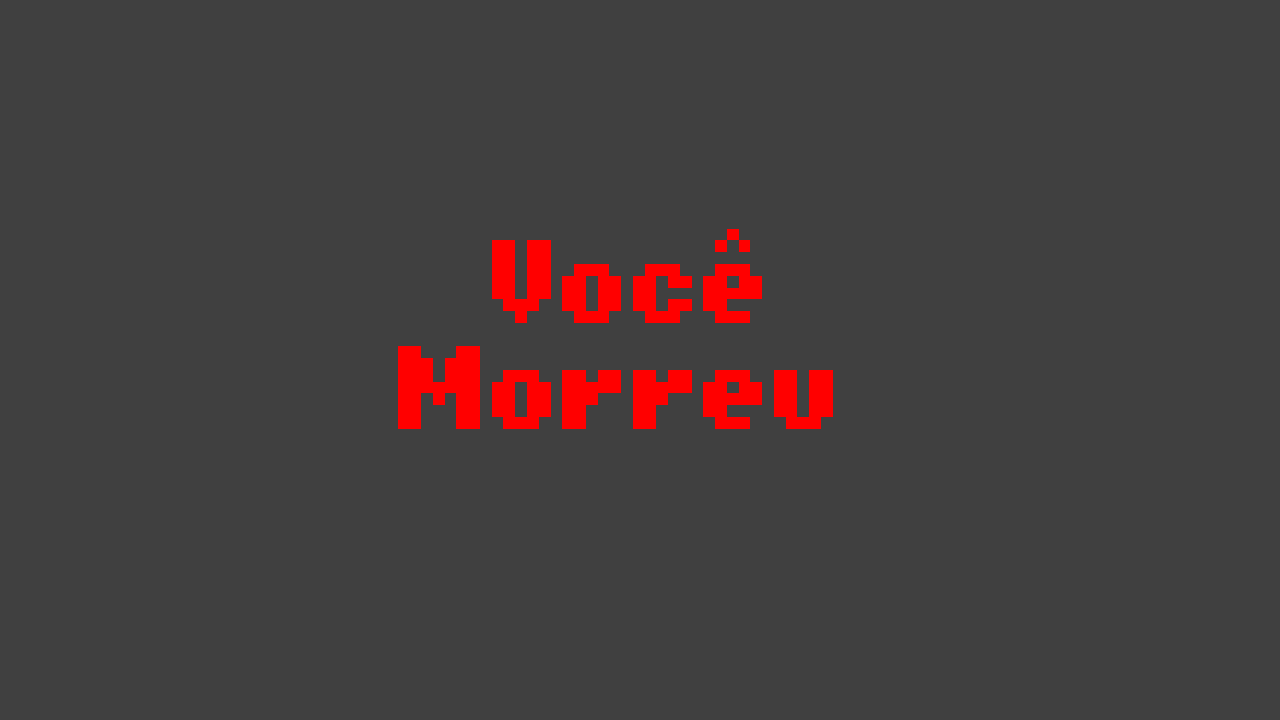
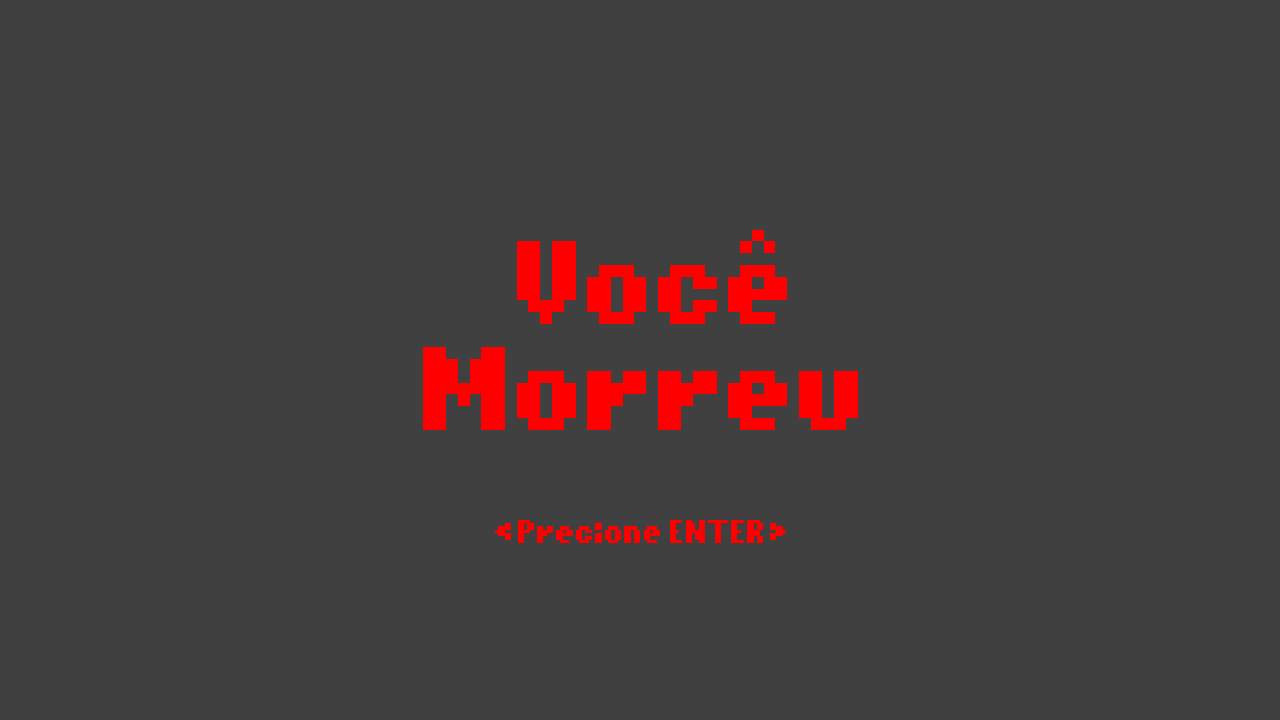
fiz umas coisas esqueci quais e quantas

Changed region(s): [[0.3125, 0.3056, 0.6875, 0.6111], [0.375, 0.7028, 0.625, 0.7639]]

diff --git a/core/src/com/gdx/glex/Jogo/GameplayActor.java b/core/src/com/gdx/glex/Jogo/GameplayActor.java
@@ -1,6 +1,7 @@
 package com.gdx.glex.Jogo;
 
 import com.badlogic.gdx.Gdx;
+import com.badlogic.gdx.Input;
 import com.badlogic.gdx.graphics.Texture;
 import com.badlogic.gdx.graphics.g2d.Animation;
 import com.badlogic.gdx.graphics.g2d.Batch;
@@ -10,7 +11,12 @@ import com.badlogic.gdx.scenes.scene2d.Actor;
 import com.gdx.glex.Assets;
 import com.gdx.glex.AuxiliarFunctions.AnimationFunctions;
 import com.gdx.glex.AuxiliarFunctions.GameplayFunctions;
+import com.gdx.glex.AuxiliarFunctions.RenderFunctions;
+import com.gdx.glex.Menu.MenuPrincipal.Menu;
+import com.gdx.glex.Menu.Rankings.Player;
+import com.gdx.glex.Menu.Rankings.Rankings;
 
+import java.sql.Date;
 import java.util.ArrayList;
 
 // Classe Actor, que eh basicamente como a tela deve ser mostrada no momento que
@@ -19,8 +25,11 @@ public class GameplayActor extends Actor
     private float elapsedTime, playerPosition, attackElapsedTime;
     private int pontuacao;
     private BitmapFont font;
-    private Texture deathMessage;
+    private Texture deathMessage, popUp;
 
+    private GameScreen game;
+
+    private boolean isEnterPressed;
     private boolean isRunning;
     private boolean isAttacking;
     private boolean isDead;
@@ -32,10 +41,13 @@ public class GameplayActor extends Actor
     private Animation attackAnimation, runAnimation, monsterAnimation, ghostAnimation, demonAnimation;
 
 
-    GameplayActor(Assets assetsManager)
+    GameplayActor(Assets assetsManager, GameScreen game)
     {
+        this.game = game;
+
         deathMessage = assetsManager.manager.get("Imagens/Gameplay/deathMessage.png");
         font = assetsManager.manager.get("Fonts/OldFont.fnt");
+        font.getData().setScale(2f,2f);
 
         attackAnimation = AnimationFunctions.png2Animation("Animations/playerAttack.png", assetsManager, 12, 1, 80, 80, 0, 12, 12f );
 
@@ -46,6 +58,9 @@ public class GameplayActor extends Actor
         ghostAnimation = AnimationFunctions.png2Animation("Animations/ghost.png", assetsManager, 7, 1, 64,64, 0, 7, 10f );
 
         demonAnimation = AnimationFunctions.png2Animation("Animations/demon.png", assetsManager, 6, 1, 74,160, 0, 6, 10f );
+
+        // pop up que pega o nome
+        popUp = assetsManager.manager.get("Imagens/Gameplay/popup.png");
 
         // seta posicao do player no meio da tela ao começo do jogo
         playerPosition = Gdx.graphics.getWidth()/2f;
@@ -64,6 +79,7 @@ public class GameplayActor extends Actor
     public void die()
     {
         isDead=true;
+        game.getMusic().stop();
     }
 
     public void killMonster()
@@ -79,9 +95,42 @@ public class GameplayActor extends Actor
         }
     }
 
+    public void deathEvent(Batch batch)
+    {
+        if (isDead)
+        {
+            if(isEnterPressed) {
+                RenderFunctions.drawInPlace(batch, popUp, 0.5f, 0.5f);
+                font.draw(batch, "Nome: " + game.getInputProcessor().getName(), Gdx.graphics.getWidth()/2f-Gdx.graphics.getWidth()/5f, Gdx.graphics.getHeight()/2f);
+            }
+            else
+                batch.draw(deathMessage, 0,0, Gdx.graphics.getWidth(), Gdx.graphics.getHeight());
+
+//            game.getGame().setScreen(new Menu(game.getGame(), Gdx.graphics.getWidth(),Gdx.graphics.getHeight()));
+        }
+    }
+
+    public void setEnterPressed()
+    {
+        isEnterPressed=true;
+    }
+
+    public boolean isEnterPressed()
+    {
+        return isEnterPressed;
+    }
+
+    public void endGame()
+    {
+        Player player = new Player(game.getInputProcessor().getName().substring(0,game.getInputProcessor().getName().length()-5), pontuacao );
+        game.getGame().setScreen(new Rankings(game.getGame(), Gdx.graphics.getWidth(),Gdx.graphics.getHeight(), player));
+    }
+
     @Override
     public void draw(Batch batch, float parentAlpha)
     {
+        deathEvent(batch);
+
         font.draw(batch, "Score: " + pontuacao, Gdx.graphics.getWidth() - Gdx.graphics.getWidth()/6f, Gdx.graphics.getHeight() - Gdx.graphics.getHeight()/6f);
 
         GameplayFunctions.spawnMonster(monstersPositions, monsterAnimationArray, isMonsterDead);
@@ -97,7 +146,6 @@ public class GameplayActor extends Actor
         // mata o player se ele for engolido pelo WoF
         if(playerPosition<=Gdx.graphics.getWidth()/20f) {
             die();
-            batch.draw(deathMessage, 0,0, Gdx.graphics.getWidth(), Gdx.graphics.getHeight());
         }
 
         // se nao estiver morto continua printando as coisas

diff --git a/core/src/com/gdx/glex/Jogo/GameScreen.java b/core/src/com/gdx/glex/Jogo/GameScreen.java
@@ -7,6 +7,7 @@ import com.badlogic.gdx.Screen;
 import com.badlogic.gdx.audio.Music;
 import com.badlogic.gdx.audio.Sound;
 import com.badlogic.gdx.graphics.GL20;
+import com.badlogic.gdx.graphics.Texture;
 import com.badlogic.gdx.graphics.g2d.Batch;
 import com.badlogic.gdx.graphics.g2d.TextureRegion;
 import com.badlogic.gdx.scenes.scene2d.Actor;
@@ -22,10 +23,10 @@ public class GameScreen implements Screen {
     private Stage mainStage, backgroundStage;
     private final int viewWidth;
     private final int viewHeight;
-    private int selectedButtonId=0;
     private Assets assetsManager;
-    private float elapsedTime;
+    private InputHandler inputProcessor;
     private GameplayActor mainActor;
+
     private Music music;
 
     private boolean isFinished;
@@ -66,9 +67,10 @@ public class GameScreen implements Screen {
         {
             isFinished=true;
             mainStage.clear();
-            mainActor =  new GameplayActor(assetsManager);
+            mainActor =  new GameplayActor(assetsManager, this);
             // Seta o input handler aqui
-            Gdx.input.setInputProcessor(new InputHandler(mainActor));
+            inputProcessor = new InputHandler(mainActor);
+            Gdx.input.setInputProcessor(inputProcessor);
             create();
         }
     }
@@ -77,13 +79,6 @@ public class GameScreen implements Screen {
     @Override
     public void render(float dt)
     {
-        if (mainActor != null)
-        {
-            if (mainActor.isDead() && Gdx.input.isKeyJustPressed(Input.Keys.ENTER))
-            {
-                game.setScreen(new Menu(game, Gdx.graphics.getWidth(),Gdx.graphics.getHeight()));
-            }
-        }
         // diz a cor de fundo da tela e da um clear nela
         Gdx.gl.glClearColor(0, 0, 0, 1);
         Gdx.gl.glClear( GL20.GL_COLOR_BUFFER_BIT );
@@ -96,6 +91,20 @@ public class GameScreen implements Screen {
         backgroundStage.draw();
         mainStage.draw();
     }
+
+    public InputHandler getInputProcessor()
+    {
+        return inputProcessor;
+    }
+
+    public Music getMusic() {
+        return music;
+    }
+
+    public Game getGame() {
+        return game;
+    }
+
     // Metodos que necessitam ser implementados por Screen porem nao relevantes por enquanto
 
     @Override

diff --git a/core/src/com/gdx/glex/Jogo/InputHandler.java b/core/src/com/gdx/glex/Jogo/InputHandler.java
@@ -4,11 +4,14 @@ import com.badlogic.gdx.Input;
 import com.badlogic.gdx.InputProcessor;
 import com.gdx.glex.Menu.MenuPage;
 
+import java.util.Locale;
+
 // Classe que lida com os Inputs, herda de InputProcessor e tem funcoes bem obveas
 public class InputHandler implements InputProcessor {
 
     private int state=0;
-    GameplayActor game;
+    private GameplayActor game;
+    private String name="";
 
     InputHandler(GameplayActor game)
     {
@@ -17,6 +20,12 @@ public class InputHandler implements InputProcessor {
 
     @Override
     public boolean keyDown(int keycode) {
+        if(game.isDead())
+            name+=Character.isLetter(keycode+36)?Input.Keys.toString(keycode).toLowerCase():"";
+
+        if(game.isEnterPressed() && Input.Keys.ENTER==keycode)
+            game.endGame();
+
         switch (keycode)
         {
             case Input.Keys.CONTROL_LEFT:
@@ -27,9 +36,17 @@ public class InputHandler implements InputProcessor {
                 // se for par corre caso contrario desacelera
                 game.setRunning(state++%2==0);
                 break;
+            case Input.Keys.ENTER:
+                if (game.isDead())
+                    game.setEnterPressed();
+                break;
         }
 
         return false;
+    }
+
+    public String getName() {
+        return name.substring(5);
     }
 
     @Override

diff --git a/core/src/com/gdx/glex/Menu/Rankings/Rankings.java b/core/src/com/gdx/glex/Menu/Rankings/Rankings.java
@@ -3,6 +3,7 @@ package com.gdx.glex.Menu.Rankings;
 import com.badlogic.gdx.Game;
 import com.badlogic.gdx.Gdx;
 import com.badlogic.gdx.Screen;
+import com.badlogic.gdx.files.FileHandle;
 import com.badlogic.gdx.graphics.Texture;
 import com.badlogic.gdx.graphics.g2d.*;
 import com.badlogic.gdx.scenes.scene2d.Actor;
@@ -21,6 +22,13 @@ public class Rankings extends MenuPage implements Screen {
     public Rankings(Game g, int viewWidth, int viewHeight){
         super(g, viewWidth, viewHeight, Rankings.class);
     }
+
+    public Rankings(Game g, int viewWidth, int viewHeight, Player player){
+        super(g, viewWidth, viewHeight, Rankings.class);
+        FileHandle file = Gdx.files.local("saves.txt");
+        file.writeString(player.getName() + " - " + player.getScore() + " - " + player.getLastGame(), true);
+    }
+
      //Ator da cena de ranking
     class RankingsActor extends Actor
     {
@@ -50,7 +58,7 @@ public class Rankings extends MenuPage implements Screen {
         cursor = assetsManager.manager.get(("Imagens/Rankings/cursor.png"));
 
         selected = assetsManager.manager.get(("Imagens/Rankings/selectedRanking.png"));
-        
+
         //Cria Ator a ser mostrado na tela
         mainStage.addActor(new RankingsActor());
         Gdx.input.setInputProcessor(new com.gdx.glex.Menu.InputHandler(this, this));

diff --git a/core/src/com/gdx/glex/AuxiliarFunctions/GameplayFunctions.java b/core/src/com/gdx/glex/AuxiliarFunctions/GameplayFunctions.java
@@ -32,10 +32,8 @@ public class GameplayFunctions {
         for(int i=0; i<actor.getMonsterAnimationArray().size(); i++) {
             actor.getMonstersPositions().set(i,actor.getMonstersPositions().get(i)-Gdx.graphics.getDeltaTime()*speedo);
             if(actor.getMonstersPositions().get(i)<=actor.getPlayerPosition() && !actor.getIsMonsterDead().get(i)) {
-                actor.die();
-                //System.out.println("edu is gay");
-                //vlw ligoski <3
-                batch.draw(actor.getDeathMessage(), 0,0, Gdx.graphics.getWidth(), Gdx.graphics.getHeight());
+                if(!actor.isDead())
+                    actor.die();
             }
             if(actor.getMonsterAnimationArray().get(i)>0f)
                 actor.getMonsterAnimationArray().set(i, actor.getMonsterAnimationArray().get(i)+Gdx.graphics.getDeltaTime());

diff --git a/core/src/com/gdx/glex/Menu/Rankings/Player.java b/core/src/com/gdx/glex/Menu/Rankings/Player.java
@@ -1,0 +1,41 @@
+package com.gdx.glex.Menu.Rankings;
+
+import javax.print.attribute.standard.DateTimeAtCreation;
+import java.sql.Date;
+import java.sql.Time;
+
+public class Player {
+    private String name;
+    private Date lastGame;
+    private int score;
+
+    public Player(String name, int score) {
+        this.name = name;
+        this.lastGame = new Date(0);
+        this.score = score;
+    }
+
+    public String getName() {
+        return name;
+    }
+
+    public void setName(String name) {
+        this.name = name;
+    }
+
+    public Date getLastGame() {
+        return lastGame;
+    }
+
+    public void setLastGame(Date lastGame) {
+        this.lastGame = lastGame;
+    }
+
+    public int getScore() {
+        return score;
+    }
+
+    public void setScore(int score) {
+        this.score = score;
+    }
+}

diff --git a/core/src/com/gdx/glex/Jogo/BackgroundActor.java b/core/src/com/gdx/glex/Jogo/BackgroundActor.java
@@ -1,12 +1,14 @@
 package com.gdx.glex.Jogo;
 
 import com.badlogic.gdx.Gdx;
+import com.badlogic.gdx.Input;
 import com.badlogic.gdx.graphics.Texture;
 import com.badlogic.gdx.graphics.g2d.Batch;
 import com.badlogic.gdx.graphics.g2d.TextureRegion;
 import com.badlogic.gdx.scenes.scene2d.Actor;
 import com.gdx.glex.Assets;
 import com.gdx.glex.AuxiliarFunctions.RenderFunctions;
+import com.gdx.glex.Menu.MenuPrincipal.Menu;
 
 import java.util.ArrayDeque;
 import java.util.Arrays;

diff --git a/core/src/com/gdx/glex/Assets.java b/core/src/com/gdx/glex/Assets.java
@@ -75,6 +75,7 @@ public class Assets {
         manager.load("Animations/ghost.png", Texture.class);
         manager.load("Animations/demon.png", Texture.class);
         manager.load("Imagens/Gameplay/deathMessage.png", Texture.class);
+        manager.load("Imagens/Gameplay/popup.png", Texture.class);
         manager.load("Fonts/OldFont.fnt", BitmapFont.class); //or use alex answer to use custom font
         manager.load("Sounds/gameplayMusic.mp3", Music.class);
     }
